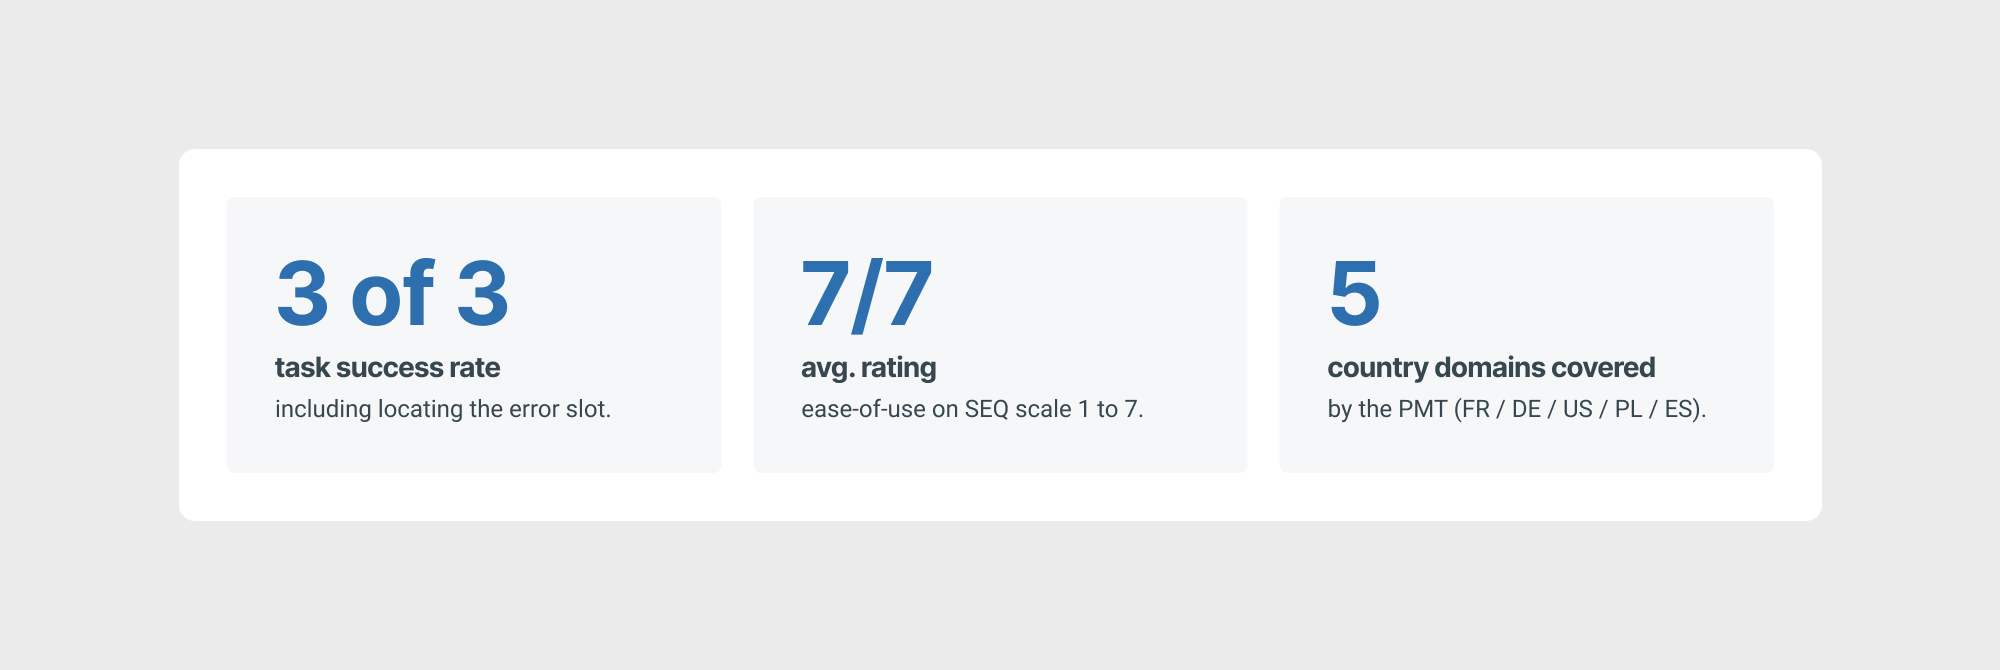
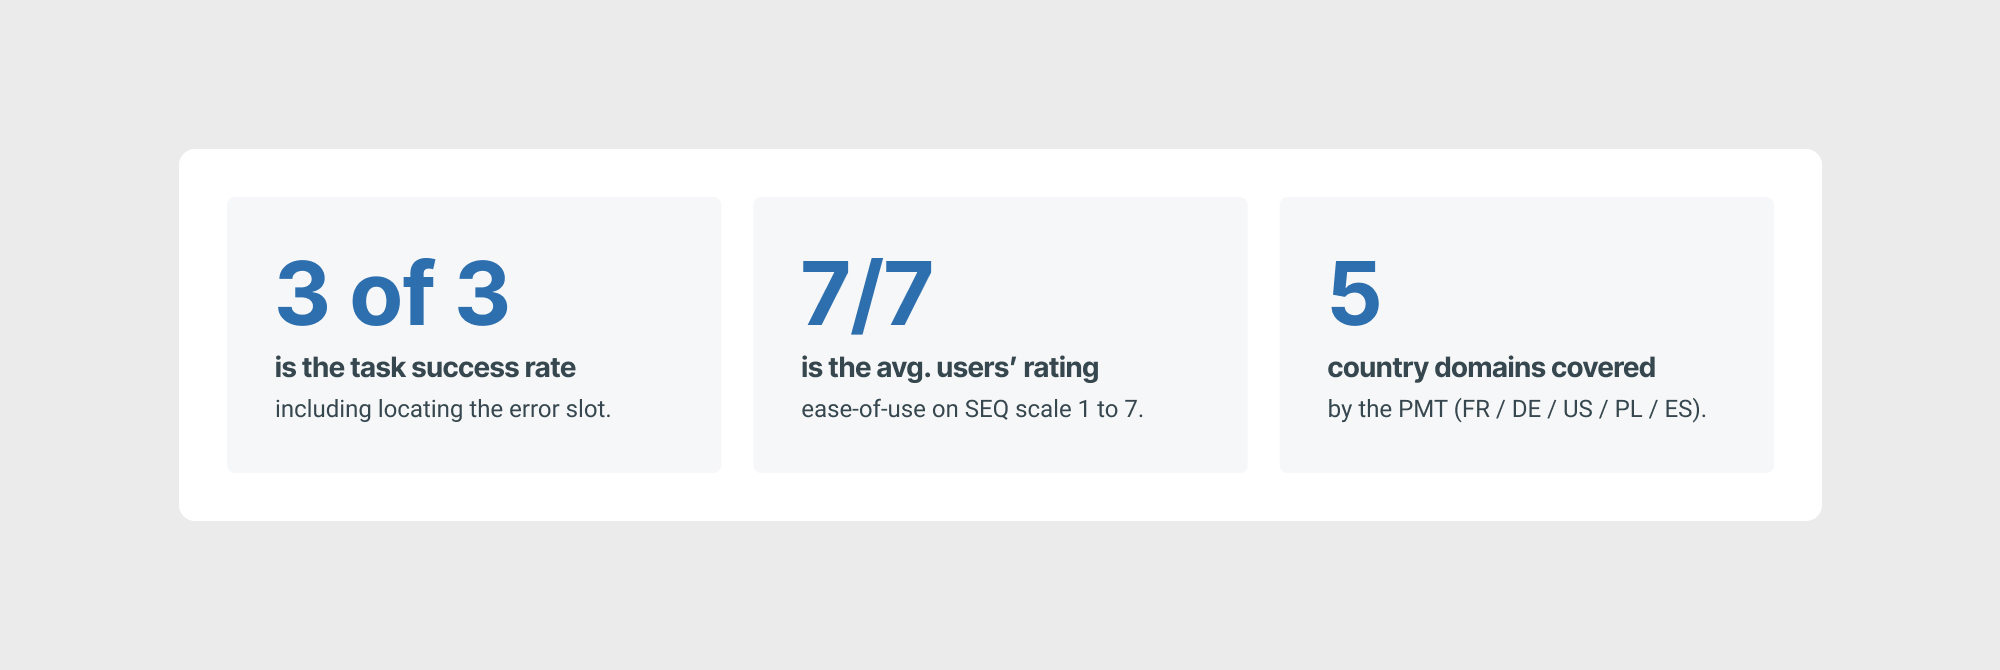
f

Changed region(s): [[0.124, 0.5373, 0.31, 0.5672], [0.403, 0.5373, 0.558, 0.5672]]

diff --git a/project-atolls-pmt.html b/project-atolls-pmt.html
@@ -116,7 +116,7 @@
             <div class="cf center pv0 pv1-l">
                 <div class="fl w-100 center">
                     <a class="dt">
-                        <img class="db w-100 br2 br3-l br3-m" src="/img/pmt-4.jpg" alt="Diagram showing the 3 slot creation paths converging into the PMT">
+                        <img class="db w-100 br2 br3-l br3-m" src="/img/pmt-5.jpg" alt="Diagram showing the 3 slot creation paths converging into the PMT">
                     </a>
                     <!--Caption-->
                     <div class="pt2 pb2">
@@ -155,7 +155,7 @@
             <!--middle-->
             <div class="fl w-100 w-75-m w-60-l phs pa2 mv3 mv5-l mv4-m">
                 <p class="dt dark-gray f4 fw6 pb2 mv2 lh-title">
-                    🧩 Context - How placements work on iGraal
+                    📖 Context - How placements work on iGraal
                 </p>
                 <p class="dt dark-gray f5 f5-m f4 fw4 pb4 mv2 lh-copy">
                     iGraal's website surfaces promotional placements - banners, spots, and slots - for retailer partners, live across 5 country domains. Behind the scenes, an internal ops team commissions and schedules these placements through the PMT (Promotional Management Tool): choosing which retailer appears where, on which domain, and for how long, sometimes for a single day, sometimes for a multi-day campaign.
